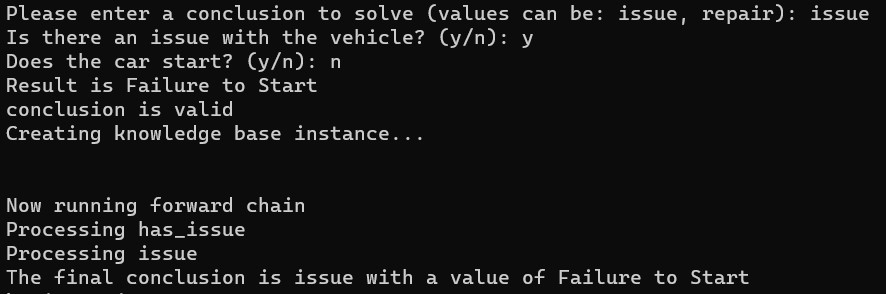
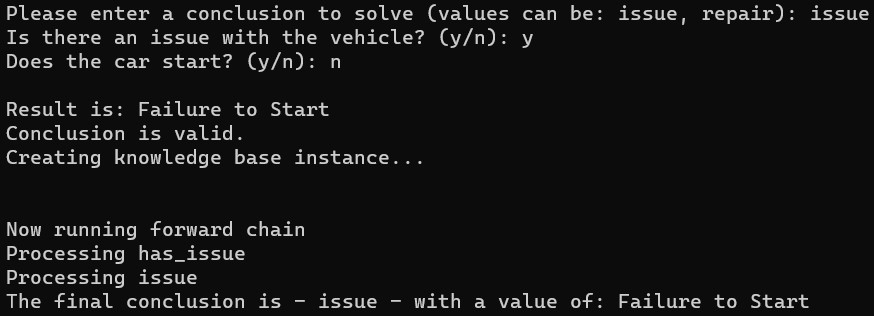
Boris: fixes for KB and variables files, updated main cpp name as per project instruction, updated CLI output for readability, updated all images and diagrams to latest patched versions.

Changed region(s): [[0.0, 0.0, 1.0, 0.551], [0.0, 0.6735, 0.9268, 0.9796]]

diff --git a/src/ForwardChain.cpp b/src/ForwardChain.cpp
@@ -110,25 +110,13 @@ void ForwardChain::runForwardChaining()
 
         //go through the variable list's inverted index of statements and push any valid conclusions.
         //make sure to prompt for entry of any non instantiated.
-        //maybe turn this into a function?
-        //int curStatement;
         if (variableListEntry != -1)
         {
             processStatementIndex(variableListEntry);
-            /*            for (int variableListIter = 1; variableListIter < variableList.at(variableListEntry).statementIndex.size(); variableListIter++)
-            {
-                //           = The matching variable list entry  . The individual statment number
-                curStatement = variableList.at(variableListEntry).statementIndex.at(variableListIter);
-                if (true == processPremiseList(ruleSystem.kBase.at(curStatement).premiseList))
-                {
-                    conclusionVariableQueue.push(ruleSystem.kBase.at(curStatement).conclusion);
-                }
-            }
-*/
         }
     }
 
-    std::cout << "The final conclusion is " << queueTopPtr.name << " with a value of " << queueTopPtr.value << std::endl;
+    std::cout << "The final conclusion is - " << queueTopPtr.name << " - with a value of: " << queueTopPtr.value << std::endl;
 }
 
 /**

diff --git a/src/BackChain.cpp b/src/BackChain.cpp
@@ -55,10 +55,8 @@ void BackChain::populateVariableList(std::string fileName)
 
     if (variableListFile)
     {
-        while (!variableListFile.eof())
+        while (getline(variableListFile, csvLine))
         {
-            getline(variableListFile, csvLine);
-
             startParseLocation = 0;
             endParseLocation = (csvLine.find(',', startParseLocation) - startParseLocation);
             if (endParseLocation <= -1)
@@ -343,20 +341,20 @@ void BackChain::runBackwardChaining()
     //is a conclusion but not valid
     if (conclusionLocation == -1)
     {
-        std::cout << "conclusion is NOT valid";
+        std::cout << "No conclusion match available. Based on your entries, the results are inconclusive. ";
     }
     
     //is a conclusion and valid
     if (conclusionLocation > 0)
     {
-        std::cout << "Result is " << ruleSystem.kBase.at(conclusionLocation).conclusion.value << std::endl;
-        std::cout << "conclusion is valid";
+        std::cout << "\nResult is: " << ruleSystem.kBase.at(conclusionLocation).conclusion.value << std::endl;
+        std::cout << "Conclusion is valid. ";
     }
 
     //not a conclusion
     if (conclusionLocation == 0)
     {
-        std::cout << "no conclusion";
+        std::cout << "No conclusion. ";
     }
 }
 

diff --git a/src/Project1-bss64-dat54-rrh93.cpp b/src/Project1-bss64-dat54-rrh93.cpp
@@ -58,7 +58,7 @@ void repair(ForwardChain& forwardChain)
 int main(int argc, char* argv[])
 {
     std::cout << "Welcome to the Automobile Diagnostic Program." << std::endl;
-    std::cout << "Authors: David Torrente, Randall Henderson, Borislav Sabotinov" << std::endl;
+    std::cout << "Authors: David Torrente (dat54@txstate.edu), Randall Henderson (rrh93@txstate.edu), Borislav Sabotinov (bss64@txstate.edu)." << std::endl;
     std::cout << std::endl;
 
     if (argc == 2 && (strcmp(argv[1], "-h") || strcmp(argv[1], "-help"))) 
@@ -78,6 +78,12 @@ int main(int argc, char* argv[])
     BackChain backChain;
     backChain.populateLists();
 
+    std::string displayKb;
+    std::cout << "Do you want to display the knowledge base (Y/n)? ";
+    std::cin >> displayKb;
+
+    if ((displayKb == "Y") || (displayKb == "y"))
+        backChain.ruleSystem.displayBase();
 
     diagnose(backChain);
 

diff --git a/include/ClauseItem.hpp b/include/ClauseItem.hpp
@@ -7,6 +7,11 @@
 #define STRING 2
 #define FLOAT 3
 
+/**
+ * ClauseItem - Represents either a premise or a conclusion (or both). 
+ * How a variable is treated depends on the data structure in which it 
+ * resides (e.g., premiseList or conclusionList)
+ */ 
 class ClauseItem
 {
 public:

diff --git a/include/Statement.hpp b/include/Statement.hpp
@@ -5,6 +5,11 @@
 
 #include "ClauseItem.hpp"
 
+/**
+ * Represents a single line entry in the knowledge base file. 
+ * 0 to n premises and 1 conclusion. A statement may be atomic (e.g., var = true). 
+ * 
+ */ 
 class Statement
 {
 public:

diff --git a/README.md b/README.md
@@ -7,12 +7,21 @@ Authors:
 * [Borislav Sabotinov](https://github.com/bss8)
 * [Randal Henderson](https://github.com/RRHenderson)
 
-## <span style="color:#828"> 1. Technical Specifications </span>
+## Reports
+
+Reports for all team members are located under:     
+`resources/reports` directory. 
+
+To navigate there, cd into the directory: 
+
+`cd resources/reports`
+
+## 1. Technical Specifications
 <hr>
 
 ![Code quality grade](https://www.code-inspector.com/project/19629/score/svg)
 
-### <span style="color:#0da2ff"> 1.1 Build and run the application </span>
+### 1.1 Build and run the application 
 
 This application is primarily designed to run on Texas State (TXST) Linux servers. 
 Eros: EROS.CS.TXSTATE.EDU (147.26.231.153)
@@ -20,14 +29,14 @@ Zeus: ZEUS.CS.TXSTATE.EDU (147.26.231.156)
 
 Upon invoking the program, the knowledge base (KB) file will be parsed and if correctly formatted, each statement (line) will be processed and displayed to the console.
 
-### <span style="color:#0da2ff"> 1.2 Automated build with log file </span>
+### 1.2 Automated build with log file
 
 Simply run the below command from the root directory:     
  `./buildAndRun.sh`
 
 After a complete run, log will be in root dir as `vehicle_diagnosis.log`
 
-### <span style="color:#0da2ff"> 1.3 Manual build (no log) </span>
+### 1.3 Manual build (no log) 
 
 To build locally, run this command in the root directory: `make`
 
@@ -40,21 +49,24 @@ To run: `./VehicleRepairAndDiagnosis`
 Once KB file is loaded and variables list parsed, user is prompted for a conclusion.     
 Upon entering a conclusion, the user will be prompted with questions until a solution is found (if available). 
 
-### <span style="color:#0da2ff"> 1.4 Loading the Knowledge Base </span>
+### 1.4 Loading the Knowledge Base 
 
-### <span style="color:#0da2ff"> 1.5 Error handling </span>
+### 1.5 Error handling 
+This section intentionally shows what CLI output would look like, given a defective KB file.    
 If, after loading the KB file, you see this message: 
 ![Error loading KB](resources/images/error_check_example_kb_validation_2.jpg)
 
 Then scroll up and look through the readout (alternatively, look through the generated vehicle_diagnosis.log file) for a line like this: 
 ![Error loading KB](resources/images/error_check_example_kb_validation_1.jpg)
 
-### <span style="color:#0da2ff"> 1.6 Normal operation </span>
+The KB file line must be corrected for correct processing. 
+
+### 1.6 Normal operation 
 
 Once the KB file is corrected, the output should look like this: 
 ![Error loading KB](resources/images/normal_operation_kb_no_error.jpg)
 
-### <span style="color:#0da2ff"> 1.7 Using the application </span>
+### 1.7 Using the application 
 
 After the KB file is loaded, program will pause, allowing you to view output.     
 Press Enter to continue. 
@@ -80,16 +92,16 @@ If you select repair, follow the prompts as shown in this example:
 ![Repair conclusion](resources/images/repair_conclusion.jpg)
 
 
-## <span style="color:#828"> 2. Design </span>
+## 2. Design 
 <hr>
 
-### <span style="color:#0da2ff"> 2.1 Decision Tree Diagram </span>
+### 2.1 Decision Tree Diagram 
 
 The application comes with a pre-defined knowledge base for a vehicle repair and diagnosys system. 
 
 ![Decision tree diagram](resources/images/CS5346_Decision_Tree.png)
 
-### <span style="color:#0da2ff"> 2.2 Variables </span>
+### 2.2 Variables 
 
 46 variables are used in the provided knowledge base. 
 
@@ -104,7 +116,15 @@ As an additional example - instead of asking the user to input their GPA and hav
 
 This simplifies the design and the user experience, allowing the user to enter only yes or no for each question. 
 
-### <span style="color:#0da2ff"> 2.3 Why C++11? </span>
+### Class relationships 
+
+BackChain has a VariableListItem and a KnowledgeBase    
+ForwardChain has a VariableListItem, a KnowledgeBase, and ClauseItem (via queue)    
+KnowledgeBase has a Statement     
+Statement has a ClauseItem    
+
+
+###  2.3 Why C++11? 
 
 A small aside but worth mentioning. Why use c++11 compiler? C++11 now supports:
 
@@ -119,7 +139,7 @@ A small aside but worth mentioning. Why use c++11 compiler? C++11 now supports:
 "The C++11 Standard Library was also revamped with new algorithms, new container classes, atomic operations, type traits, regular expressions, new smart pointers, async() facility, and of course a multithreading library"      
  https://smartbear.com/blog/develop/the-biggest-changes-in-c11-and-why-you-should-care/
 
-## <span style="color:#828"> 3. References </span>
+## <span style="color:#828"> 3. References 
 <hr>
 
 1. Gaddis, Tony. "Starting out with C++ From Control Structures through Objects, Ninth Edition." Chapter 10 (c-strings & the string class), Chapter 17.3 the Vector Class.
